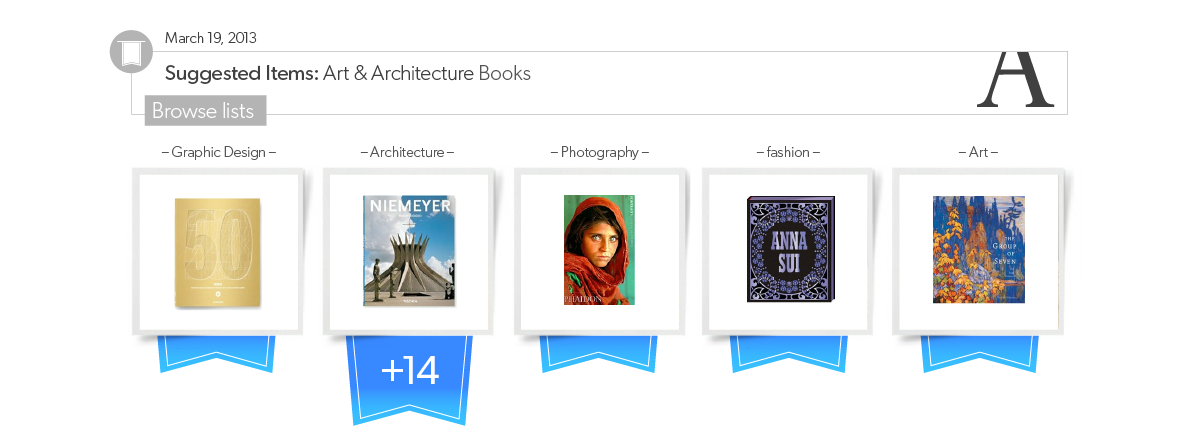
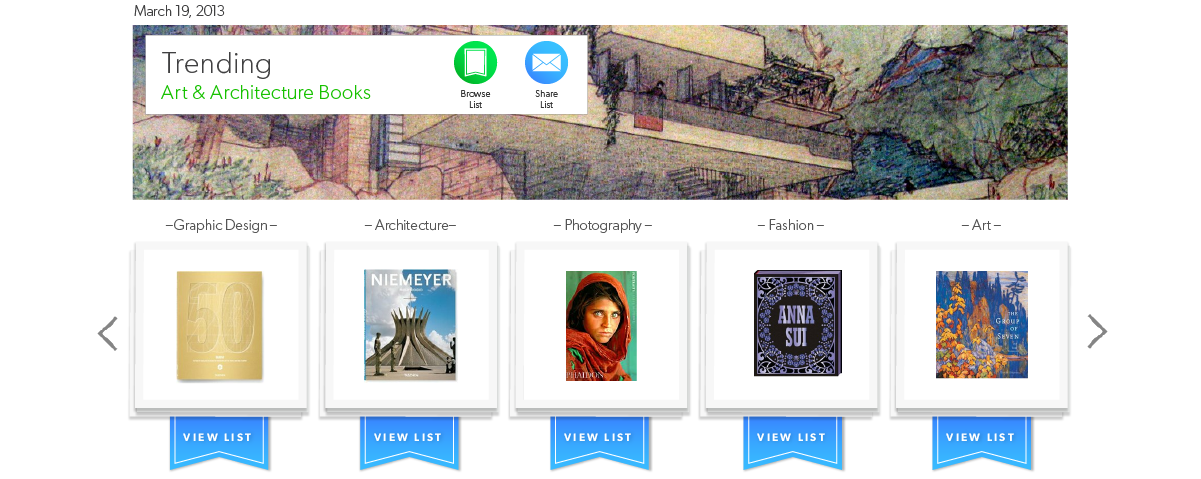
Revisions to prototype, pre presentation

diff --git a/proto/iwish/public/css/style.css b/proto/iwish/public/css/style.css
@@ -1142,11 +1142,11 @@ li {
 }
 .listDrawer {
   position: absolute;
-  top: 335px;
-  left: 130px;
-  width: 940px;
+  top: 416px;
+  left: 3px;
+  width: 1200px;
   height: 498px;
-  background: #ffffff url('/img/new/listdrawer.jpg') top left repeat-x;
+  background: #ffffff url('/img/new/drawDown.png') top left repeat-x;
 }
 .listOpen {
   height: 440px;
@@ -1162,11 +1162,11 @@ li {
   border: 1px solid #eee;
 }
 .sharedList {
-  width: 940px;
-  height: 477px;
+  width: 934px;
+  height: 479px;
   position: absolute;
-  top: 406px;
-  left: 129px;
+  top: 395px;
+  left: 132px;
 }
 .sharedList .scrollableArea {
   background: transparent url('/img/new/listdrawer.jpg') top left repeat-x;
@@ -1234,7 +1234,7 @@ li {
   position: absolute;
 }
 .scrollArea .feedItem.animate {
-  height: 315px !important;
+  height: 308px !important;
 }
 .scrollArea .scroll {
   position: absolute;
@@ -1387,7 +1387,7 @@ li {
   -webkit-box-shadow: 4 4 4px 0 #444444;
   -moz-box-shadow: 4 4 4px 0 #444444;
   box-shadow: 4 4 4px 0 #444444;
-  z-index: 99999999999999;
+  z-index: 99;
 }
 .dragItem .overDrop {
   -webkit-box-shadow: 4 4 4px 0 #ff0000;
@@ -1562,6 +1562,9 @@ img.flex {
   -webkit-border-radius: 4px;
   -moz-border-radius: 4px;
   border-radius: 4px;
+}
+.ui-draggable-dragging {
+  z-index: 99999999999!important;
 }
 /*
 LARGER MOBILE DEVICES

diff --git a/proto/iwish/public/css/_bar.less b/proto/iwish/public/css/_bar.less
@@ -13,10 +13,10 @@ li {
 .listDrawer {
 	//display: none;
 	position: absolute;
-	top: 335px;left:130px;
-	width: 940px;
+	top: 416px;left:3px;
+	width: 1200px;
 	height: 498px;;
-	background: @white url('/img/new/listdrawer.jpg') top left repeat-x;
+	background: @white url('/img/new/drawDown.png') top left repeat-x;
 }
 
 .listOpen {
@@ -35,10 +35,10 @@ li {
 }
 
 .sharedList {
-	width:940px;
-	height:477px;
+	width:934px;
+	height:479px;
 	position: absolute;
-	top: 406px; left: 129px;
+	top: 395px; left: 132px;
 
 	.scrollableArea {
 		background: transparent url('/img/new/listdrawer.jpg') top left repeat-x;
@@ -69,6 +69,7 @@ li {
 }
 
 .feedList {
+
 	.scrollWrappers {
 		box-shadow: inset 0px 0px 10px rgba(0,0,0,0.9);
 	}
@@ -112,7 +113,7 @@ li {
 				position: absolute;
 			}
 		&.animate {
-			height: 315px!important
+			height: 308px!important
 		}
 	}
 
@@ -297,7 +298,7 @@ li {
 	//width: 100px; height: 100px;
 	.boxShadow(4,4,4px,0,#444);	
 	//background: rgb(238, 238, 238);
-	z-index: 99999999999999;
+	z-index: 99;
 	//display: none;
 
 
@@ -467,4 +468,9 @@ img.flex {
 	border: 1px solid #ccc;	
 	background: @white;
 	.border-radius(4px);
+}
+
+.ui-draggable-dragging {
+	z-index: 99999999999!important;
+
 }

diff --git a/proto/iwish/public/js/base.js b/proto/iwish/public/js/base.js
@@ -359,7 +359,7 @@ function initFeed() {
 		$('.scrollArea').prepend(template);
 	}
 	$('.listDrawer').hide().css({height :'0'});
-	$('.listOpen').height('440px')
+	$('.listOpen').height('475px')
 }
 
 function addPosting() {
@@ -408,7 +408,7 @@ function listDrawerInit() {
 	$('.listOpen').on('click', function(e) {
 		if(!listOpen) {
 			$('.listOpen').animate({
-				height : '950px'
+				height : '750px'
 			}, 500, function() {
 				listOpen = !listOpen
 			});
@@ -417,7 +417,7 @@ function listDrawerInit() {
 				},500);
 		} else {
 			$('.listOpen').animate({
-				height : '440px'
+				height : '475px'
 			}, 500, function() {
 				listOpen = !listOpen
 			});
